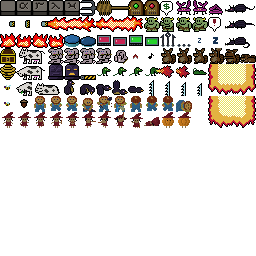
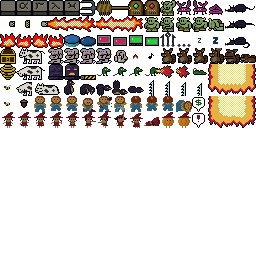
toll troll

Changed region(s): [[0.75, 0.375, 0.8125, 0.5], [0.8125, 0.0625, 0.875, 0.125], [0.625, 0.0, 0.6875, 0.0625]]

diff --git a/src/tool/common/getSoundEffectIdByName.js b/src/tool/common/getSoundEffectIdByName.js
@@ -11,7 +11,7 @@ function requireToc() {
     linewise(src, (line, lineno) => {
       if (line.startsWith("#define FMN_SFX_")) {
         const words = line.substring(16).trim().split(/\s+/);
-        if (words.length === 2) {
+        if (words.length >= 2) { // sic '>=' not '==='; there can be a comment
           const id = +words[1];
           if (!isNaN(id) && (id > 0) && (id < 128)) {
             toc.push([words[0].toUpperCase(), id]);

diff --git a/src/app/sprite/types/fmn_sprite_tolltroll.c b/src/app/sprite/types/fmn_sprite_tolltroll.c
@@ -1,0 +1,271 @@
+#include "app/sprite/fmn_sprite.h"
+#include "app/hero/fmn_hero.h"
+#include "app/fmn_game.h"
+
+#define TOLLTROLL_STAGE_COLLECT 0
+#define TOLLTROLL_STAGE_RETREAT 1
+#define TOLLTROLL_STAGE_RETIRE 2
+#define TOLLTROLL_STAGE_RAGE 3
+
+#define TOLLTROLL_RETREAT_SPEED 2.0f
+#define TOLLTROLL_RETREAT_DISTANCE 3.0f
+#define TOLLTROLL_RAGE_TIME 2.0f
+#define TOLLTROLL_RAGE_RADIUS 1.0f
+#define TOLLTROLL_RAGE_DISTANCE 0.8f
+#define TOLLTROLL_DEMAND_RADIUS 0.8f
+#define TOLLTROLL_DEMAND_DISTANCE 2.5f
+#define TOLLTROLL_TILEID_PAYMENT 0x6c
+#define TOLLTROLL_TILEID_RAGE 0x7c
+
+#define sleeping sprite->bv[0]
+#define tileid0 sprite->bv[1]
+#define stage sprite->bv[2]
+#define targetx sprite->fv[0]
+#define clock sprite->fv[1]
+#define gsbit sprite->argv[0]
+
+static void tolltroll_begin_COLLECT(struct fmn_sprite *sprite);
+static void tolltroll_begin_RETREAT(struct fmn_sprite *sprite);
+static void tolltroll_begin_RETIRE(struct fmn_sprite *sprite);
+static void tolltroll_begin_RAGE(struct fmn_sprite *sprite);
+
+/* Init.
+ */
+ 
+static void _tolltroll_init(struct fmn_sprite *sprite) {
+  tileid0=sprite->tileid;
+  stage=TOLLTROLL_STAGE_COLLECT;
+  // Ignore gsbit for now -- wait until the first update, so we're sure we move the right direction.
+}
+
+/* Payment indicator.
+ * One of these will be called each frame during COLLECT stage,
+ * and other stage entry points should call tolltroll_demand_nothing().
+ */
+ 
+struct tolltroll_find_dialogue_context {
+  struct fmn_sprite *tolltroll;
+  struct fmn_sprite *dialogue;
+};
+
+static int tolltroll_find_dialogue_1(struct fmn_sprite *sprite,void *userdata) {
+  struct tolltroll_find_dialogue_context *ctx=userdata;
+  if (sprite->controller) return 0;
+  if (sprite->imageid!=ctx->tolltroll->imageid) return 0;
+  if ((sprite->tileid!=TOLLTROLL_TILEID_PAYMENT)&&(sprite->tileid!=TOLLTROLL_TILEID_RAGE)) return 0;
+  if (sprite->x<ctx->tolltroll->x-1.0f) return 0;
+  if (sprite->x>ctx->tolltroll->x+1.0f) return 0;
+  if (sprite->y<ctx->tolltroll->y-2.0f) return 0;
+  if (sprite->y>ctx->tolltroll->y+0.0f) return 0;
+  ctx->dialogue=sprite;
+  return 1;
+}
+ 
+static struct fmn_sprite *tolltroll_find_dialogue(struct fmn_sprite *sprite) {
+  struct tolltroll_find_dialogue_context ctx={
+    .tolltroll=sprite,
+    .dialogue=0,
+  };
+  fmn_sprites_for_each(tolltroll_find_dialogue_1,&ctx);
+  return ctx.dialogue;
+}
+ 
+static void tolltroll_demand_payment(struct fmn_sprite *sprite) {
+  struct fmn_sprite *dialogue=tolltroll_find_dialogue(sprite);
+  if (dialogue) {
+    dialogue->tileid=TOLLTROLL_TILEID_PAYMENT;
+    return;
+  }
+  if (!(dialogue=fmn_sprite_generate_noparam(0,sprite->x,sprite->y-1.0f))) return;
+  dialogue->imageid=sprite->imageid;
+  dialogue->layer=150;
+  dialogue->tileid=TOLLTROLL_TILEID_PAYMENT;
+}
+
+static void tolltroll_demand_nothing(struct fmn_sprite *sprite) {
+  struct fmn_sprite *dialogue=tolltroll_find_dialogue(sprite);
+  if (dialogue) {
+    fmn_sprite_kill(dialogue);
+  }
+}
+
+/* COLLECT: Default stage. Watch the hero and demand payment if she comes near.
+ */
+ 
+static void tolltroll_begin_COLLECT(struct fmn_sprite *sprite) {
+  stage=TOLLTROLL_STAGE_COLLECT;
+}
+ 
+static void tolltroll_update_COLLECT(struct fmn_sprite *sprite,float elapsed) {
+  float herox,heroy;
+  fmn_hero_get_position(&herox,&heroy);
+  if (herox<sprite->x) {
+    sprite->xform=0;
+  } else {
+    sprite->xform=FMN_XFORM_XREV;
+  }
+  sprite->tileid=tileid0;
+  
+  if (gsbit&&fmn_gs_get_bit(gsbit)) {
+    tolltroll_begin_RETREAT(sprite);
+    return;
+  }
+  
+  if (
+    ((heroy<=sprite->y-TOLLTROLL_RAGE_DISTANCE)||(heroy>=sprite->y+TOLLTROLL_RAGE_DISTANCE))&&
+    (herox>=sprite->x-TOLLTROLL_RAGE_RADIUS)&&
+    (herox<=sprite->x+TOLLTROLL_RAGE_RADIUS)
+  ) {
+    tolltroll_begin_RAGE(sprite);
+    return;
+  }
+  
+  if (
+    (heroy>=sprite->y-TOLLTROLL_DEMAND_RADIUS)&&
+    (heroy<=sprite->y+TOLLTROLL_DEMAND_RADIUS)&&
+    (herox>=sprite->x-TOLLTROLL_DEMAND_DISTANCE)&&
+    (herox<=sprite->x+TOLLTROLL_DEMAND_DISTANCE)
+  ) {
+    tolltroll_demand_payment(sprite);
+    sprite->tileid=tileid0+1;
+  } else {
+    tolltroll_demand_nothing(sprite);
+  }
+}
+
+/* RETREAT: Walk backward until we reach (targetx).
+ */
+ 
+static void tolltroll_begin_RETREAT(struct fmn_sprite *sprite) {
+  tolltroll_demand_nothing(sprite);
+  stage=TOLLTROLL_STAGE_RETREAT;
+  if (sprite->xform&FMN_XFORM_XREV) { // facing right. walk left
+    targetx=sprite->x-TOLLTROLL_RETREAT_DISTANCE;
+  } else {
+    targetx=sprite->x+TOLLTROLL_RETREAT_DISTANCE;
+  }
+  clock=0.0f;
+}
+ 
+static void tolltroll_update_RETREAT(struct fmn_sprite *sprite,float elapsed) {
+  if (sprite->x<targetx) {
+    sprite->x+=TOLLTROLL_RETREAT_SPEED*elapsed;
+    if (sprite->x>=targetx) {
+      sprite->x=targetx;
+      tolltroll_begin_RETIRE(sprite);
+    }
+  } else {
+    sprite->x-=TOLLTROLL_RETREAT_SPEED*elapsed;
+    if (sprite->x<=targetx) {
+      sprite->x=targetx;
+      tolltroll_begin_RETIRE(sprite);
+    }
+  }
+  clock+=elapsed;
+  if (clock>=0.6f) clock-=0.6f;
+  if (clock>=0.3) sprite->tileid=tileid0+3;
+  else sprite->tileid=tileid0+2;
+}
+
+/* RETIRE: Stand around and bask in the joy of your earnings.
+ */
+ 
+static void tolltroll_begin_RETIRE(struct fmn_sprite *sprite) {
+  tolltroll_demand_nothing(sprite);
+  stage=TOLLTROLL_STAGE_RETIRE;
+}
+
+static void tolltroll_update_RETIRE(struct fmn_sprite *sprite,float elapsed) {
+  sprite->tileid=tileid0;
+}
+
+/* RAGE: Temporary stage during COLLECT, when the hero has bypassed us.
+ */
+ 
+static void tolltroll_begin_RAGE(struct fmn_sprite *sprite) {
+  tolltroll_demand_nothing(sprite);
+  stage=TOLLTROLL_STAGE_RAGE;
+  clock=TOLLTROLL_RAGE_TIME;
+  struct fmn_sprite *dialogue=fmn_sprite_generate_noparam(0,sprite->x,sprite->y-1.0f);
+  if (!dialogue) return;
+  dialogue->imageid=sprite->imageid;
+  dialogue->layer=150;
+  dialogue->tileid=TOLLTROLL_TILEID_RAGE;
+}
+
+static void tolltroll_update_RAGE(struct fmn_sprite *sprite,float elapsed) {
+  sprite->tileid=tileid0+0xf1; // odd case of a secondary tile lower than the base; i added this behavior late.
+  if ((clock-=elapsed)<=0.0f) {
+    tolltroll_begin_COLLECT(sprite);
+    return;
+  }
+  float herox,heroy;
+  fmn_hero_get_position(&herox,&heroy);
+  if (herox<sprite->x) {
+    sprite->xform=0;
+  } else {
+    sprite->xform=FMN_XFORM_XREV;
+  }
+}
+
+/* Update.
+ */
+ 
+static void _tolltroll_update(struct fmn_sprite *sprite,float elapsed) {
+  if (sleeping) {
+    sprite->tileid=tileid0+4;
+    return;
+  }
+  switch (stage) {
+    case TOLLTROLL_STAGE_COLLECT: tolltroll_update_COLLECT(sprite,elapsed); break;
+    case TOLLTROLL_STAGE_RETREAT: tolltroll_update_RETREAT(sprite,elapsed); break;
+    case TOLLTROLL_STAGE_RETIRE: tolltroll_update_RETIRE(sprite,elapsed); break;
+    case TOLLTROLL_STAGE_RAGE: tolltroll_update_RAGE(sprite,elapsed); break;
+  }
+}
+
+/* Coin interaction.
+ * Return nonzero if we accept this payment.
+ */
+ 
+static int16_t tolltroll_consider_payment(struct fmn_sprite *sprite) {
+  if (sleeping) return 0;
+  fmn_sound_effect(FMN_SFX_PAYMENT);
+  if ((stage==TOLLTROLL_STAGE_RETIRE)||(stage==TOLLTROLL_STAGE_RETREAT)) {
+    // i'll happily take your coins, but i've already done my thing.
+  } else {
+    tolltroll_begin_RETREAT(sprite);
+  }
+  if (gsbit) {
+    fmn_gs_set_bit(gsbit,1);
+  }
+  return 1;
+}
+
+/* Interact.
+ */
+ 
+static int16_t _tolltroll_interact(struct fmn_sprite *sprite,uint8_t itemid,uint8_t qualifier) {
+  switch (itemid) {
+    case FMN_ITEM_WAND: switch (qualifier) {
+        case FMN_SPELLID_LULLABYE: if (!sleeping) {
+            tolltroll_demand_nothing(sprite);
+            sleeping=1;
+            fmn_sprite_generate_zzz(sprite);
+          } break;
+        case FMN_SPELLID_REVEILLE: sleeping=0; break;
+      } break;
+    case FMN_ITEM_BELL: sleeping=0; break;
+    case FMN_ITEM_COIN: return tolltroll_consider_payment(sprite);
+  }
+  return 0;
+}
+
+/* Type definition.
+ */
+ 
+const struct fmn_sprite_controller fmn_sprite_controller_tolltroll={
+  .init=_tolltroll_init,
+  .update=_tolltroll_update,
+  .interact=_tolltroll_interact,
+};

diff --git a/src/app/hero/fmn_hero_item.c b/src/app/hero/fmn_hero_item.c
@@ -127,17 +127,30 @@ static void fmn_hero_seed_begin() {
 /* Coin.
  */
  
+struct fmn_hero_coin_collision_context {
+  struct fmn_sprite *coin;
+  struct fmn_sprite *blockage;
+};
+ 
 static int fmn_hero_coin_collision_1(struct fmn_sprite *sprite,void *userdata) {
-  struct fmn_sprite *coin=userdata;
-  if (sprite==coin) return 0;
+  struct fmn_hero_coin_collision_context *ctx=userdata;
+  if (sprite==ctx->coin) return 0;
   if (!(sprite->physics&FMN_PHYSICS_SPRITES)) return 0;
   if (sprite->radius<=0.0f) return 0;
-  if (fmn_physics_check_sprites(0,0,coin,sprite)) return 1;
+  if (fmn_physics_check_sprites(0,0,ctx->coin,sprite)) {
+    ctx->blockage=sprite;
+    return 1;
+  }
   return 0;
 }
  
-static uint8_t fmn_hero_coin_collision(struct fmn_sprite *coin) {
-  return fmn_sprites_for_each(fmn_hero_coin_collision_1,coin);
+static struct fmn_sprite *fmn_hero_coin_collision(struct fmn_sprite *coin) {
+  struct fmn_hero_coin_collision_context ctx={
+    .coin=coin,
+    .blockage=0,
+  };
+  fmn_sprites_for_each(fmn_hero_coin_collision_1,&ctx);
+  return ctx.blockage;
 }
  
 static void fmn_hero_coin_begin() {
@@ -167,10 +180,16 @@ static void fmn_hero_coin_begin() {
   
   // Before we commit to it, confirm that there is no collision.
   // If there is one, kill this sprite and put the coin back in your pocket.
+  // Plus one last chance to hand it over politely.
+  struct fmn_sprite *blockage;
   if (
-    fmn_physics_check_grid(0,0,coin,coin->physics)||
-    fmn_hero_coin_collision(coin)
+    (blockage=fmn_hero_coin_collision(coin))||
+    fmn_physics_check_grid(0,0,coin,coin->physics)
   ) {
+    if (blockage&&blockage->interact&&blockage->interact(blockage,FMN_ITEM_COIN,0)) {
+      fmn_sprite_kill(coin);
+      return;
+    }
     fmn_sound_effect(FMN_SFX_REJECT_ITEM);
     fmn_sprite_kill(coin);
     fmn_global.itemqv[FMN_ITEM_COIN]++;

diff --git a/src/app/fmn_platform.h b/src/app/fmn_platform.h
@@ -131,7 +131,7 @@ int rand();
 #define FMN_SFX_ENCHANT_ANIMAL 32
 #define FMN_SFX_PUMPKIN 33
 #define FMN_SFX_UNPUMPKIN 34
-#define FMN_SFX_KICK_1 35
+#define FMN_SFX_KICK_1 35 /* begin GM... */
 #define FMN_SFX_KICK_2 36
 #define FMN_SFX_SIDE_STICK 37
 #define FMN_SFX_SNARE_1 38
@@ -152,8 +152,8 @@ int rand();
 #define FMN_SFX_RIDE_2 53
 #define FMN_SFX_TAMBOURINE 54
 #define FMN_SFX_SPLASH_1 55
-#define FMN_SFX_COWBELL 56
-// There's more GM, thru 81, but I'm sure we won't need all that.
+#define FMN_SFX_COWBELL 56 /* ...end GM */
+#define FMN_SFX_PAYMENT 57
 
 #define FMN_SPRITE_STYLE_HIDDEN     1 /* don't render */
 #define FMN_SPRITE_STYLE_TILE       2 /* single tile */

diff --git a/src/app/sprite/fmn_sprite.h b/src/app/sprite/fmn_sprite.h
@@ -129,6 +129,7 @@ void fmn_sprite_kill(struct fmn_sprite *sprite);
 #define FMN_SPRCTL_moonsong      26
 #define FMN_SPRCTL_pitchfork     27
 #define FMN_SPRCTL_lobster       28
+#define FMN_SPRCTL_tolltroll     29
 
 #define FMN_FOR_EACH_SPRCTL \
   _(dummy) \
@@ -159,7 +160,8 @@ void fmn_sprite_kill(struct fmn_sprite *sprite);
   _(farmer) \
   _(moonsong) \
   _(pitchfork) \
-  _(lobster)
+  _(lobster) \
+  _(tolltroll)
   
 struct fmn_sprite_controller {
   void (*init)(struct fmn_sprite *sprite);

diff --git a/src/app/sprite/types/fmn_sprite_coin.c b/src/app/sprite/types/fmn_sprite_coin.c
@@ -52,6 +52,10 @@ static void _coin_pressure(struct fmn_sprite *sprite,struct fmn_sprite *presser,
   } else {
     uint8_t movedir=fmn_dir_from_vector(sprite->velx,sprite->vely);
     if (movedir==fmn_dir_reverse(dir)) {
+      if (presser&&presser->interact&&presser->interact(presser,FMN_ITEM_COIN,0)) {
+        fmn_sprite_kill(sprite);
+        return;
+      }
       sprite->tileid=0x2a;
       sprite->velx=0.0f;
       sprite->vely=0.0f;

diff --git a/README.md b/README.md
@@ -20,7 +20,7 @@ I want this thing ready to show off at GDEX 2023. Anything not necessary for dem
 
 - [ ] Sprites:
 - - [x] Lobster
-- - [ ] Toll troll
+- - [x] Toll troll
 - - [ ] Little fire-breathing lizard
 - - [ ] Decorative blooming plants? Would help to explain the rabbit's deal.
 - - [ ] Conveyor belt
